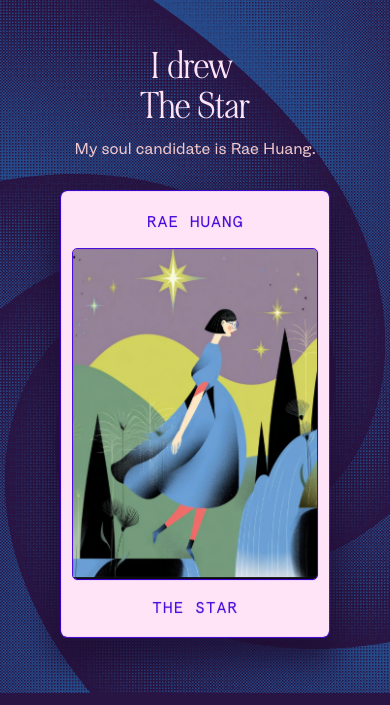
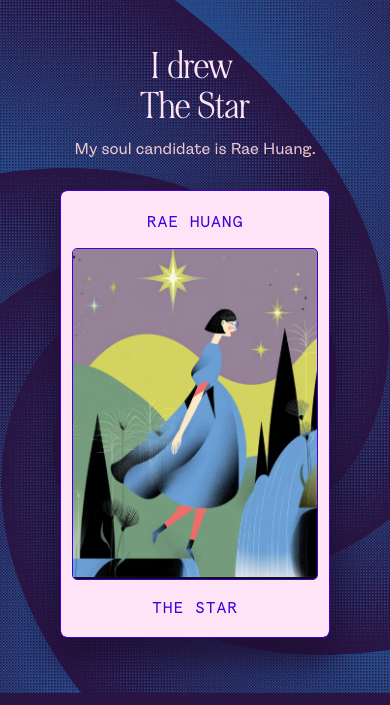
Improve hero shell first paint; align results with home
- Inject critical radial gradient for / and /result in gatsby-ssr; parse style before font preloads
- ClientOnlyDithering: static shader import and useLayoutEffect for earlier mount/reveal
- Home and ResultPage main: same radial gradient under swirl dither for first paint
- Update share preview PNGs

diff --git a/gatsby-ssr.js b/gatsby-ssr.js
@@ -7,6 +7,8 @@ import React from 'react'
 
 export { wrapPageElement } from './src/wrap-page-element'
 
+const CRITICAL_SHELL_BG_KEY = 'critical-shell-bg'
+
 const criticalFonts = [
   '/fonts/NoirEnBlanc/noiretblanc-webfont.woff2',
   '/fonts/NoirEnBlanc/noiretblanc_medium_bold-webfont.woff2',
@@ -25,8 +27,60 @@ const forceHttpsScript = (
   />
 )
 
-export const onRenderBody = ({ setHeadComponents }) => {
+/** Normalize Gatsby path (may include trailing slash). */
+function normalizedPath(pathname) {
+  const p = (pathname || '').replace(/\/$/, '')
+  return p === '' ? '/' : p
+}
+
+/**
+ * Matches hero dither chrome on home (`src/pages/index.js`) and results (`ResultPage` on `/result`)
+ * so first paint matches `#264A89` swirl-on-purple before JS/CSS bundles.
+ */
+function criticalShellBackgroundCss(pathname) {
+  const base = 'html{background-color:#291543}body{margin:0;background-color:#291543}'
+  const p = normalizedPath(pathname)
+  const heroDitherPages = p === '/' || p === '/result'
+  if (!heroDitherPages) return base
+  return `${base}body{background-image:radial-gradient(ellipse 130% 90% at 50% 0%,rgba(38,74,137,.42) 0%,rgba(41,21,67,0) 58%)}`
+}
+
+/**
+ * After Gatsby merges head, move shell background `<style>` before the first font/script preload
+ * so the parser applies paint rules before kicking off optional font fetches.
+ */
+export const onPreRenderHTML = ({ getHeadComponents, replaceHeadComponents }) => {
+  const head = getHeadComponents().filter(Boolean)
+  const ci = head.findIndex((c) => React.isValidElement(c) && c.key === CRITICAL_SHELL_BG_KEY)
+  if (ci === -1) return
+
+  const critical = head[ci]
+  const rest = head.filter((_, i) => i !== ci)
+
+  let insertAt = rest.findIndex((c) => {
+    if (!React.isValidElement(c) || c.type !== 'link') return false
+    const rel = c.props?.rel
+    return rel === 'preload' || rel === 'prefetch' || rel === 'modulepreload'
+  })
+
+  if (insertAt === -1) {
+    insertAt = rest.findIndex(
+      (c) => React.isValidElement(c) && c.type !== 'meta' && c.type !== 'title'
+    )
+  }
+  if (insertAt === -1) insertAt = rest.length
+
+  replaceHeadComponents([...rest.slice(0, insertAt), critical, ...rest.slice(insertAt)])
+}
+
+export const onRenderBody = ({ setHeadComponents, pathname }) => {
   setHeadComponents([
+    <style
+      key={CRITICAL_SHELL_BG_KEY}
+      dangerouslySetInnerHTML={{
+        __html: criticalShellBackgroundCss(pathname || ''),
+      }}
+    />,
     forceHttpsScript,
     ...criticalFonts.map((href) => (
       <link

diff --git a/src/components/ClientOnlyDithering.js b/src/components/ClientOnlyDithering.js
@@ -1,4 +1,5 @@
-import React, { useEffect, useMemo, useState } from 'react'
+import React, { useLayoutEffect, useMemo, useState } from 'react'
+import { Dithering } from '@paper-design/shaders-react'
 
 /** App-wide one-shot: multiple ClientOnlyDithering mounts must not each probe (WebGL context cap ~8). */
 let webgl2SupportCache
@@ -36,19 +37,24 @@ export default function ClientOnlyDithering({
   shape,
   revealVariant = 'auto',
   revealDuration,
+  /** Skip reveal delay/blur so WebGL shows on first layout pass (e.g. home hero). */
+  instantReveal = false,
   ...props
 }) {
   const [mounted, setMounted] = useState(false)
   const [revealed, setRevealed] = useState(false)
   const [reduceMotion, setReduceMotion] = useState(false)
 
-  useEffect(() => {
+  useLayoutEffect(() => {
     setMounted(true)
     setReduceMotion(prefersReducedMotion())
-  }, [])
+    if (instantReveal) {
+      setRevealed(true)
+    }
+  }, [instantReveal])
 
-  useEffect(() => {
-    if (!mounted) return
+  useLayoutEffect(() => {
+    if (!mounted || instantReveal) return
     setRevealed(false)
 
     const timer = window.setTimeout(() => {
@@ -61,7 +67,7 @@ export default function ClientOnlyDithering({
     }, 32)
 
     return () => window.clearTimeout(timer)
-  }, [mounted, shape, revealVariant])
+  }, [mounted, shape, revealVariant, instantReveal])
 
   const duration = revealDuration ?? (shape === 'swirl' ? DEFAULT_SWIRL_DURATION : DEFAULT_FADE_DURATION)
   const isSwirlReveal = revealVariant === 'swirl' || (revealVariant === 'auto' && shape === 'swirl')
@@ -87,7 +93,6 @@ export default function ClientOnlyDithering({
 
   const webgl2Ok = canUseWebGL2()
 
-  const { Dithering } = require('@paper-design/shaders-react')
   const fallbackColor = (style && style.backgroundColor) || '#00000000'
   const transitionDuration = reduceMotion ? 120 : duration
 

diff --git a/src/pages/index.js b/src/pages/index.js
@@ -139,7 +139,16 @@ const IntroPage = () => {
   return (
     <main
       id="main-content"
-      style={{ backgroundColor: '#291543', color: '#FFFFFF', overflowX: 'hidden', WebkitFontSmoothing: 'antialiased', MozOsxFontSmoothing: 'grayscale', textRendering: 'auto' }}
+      style={{
+        backgroundColor: '#291543',
+        /* Matches hero dither (#264A89) for first paint / SSR before WebGL hydrates */
+        backgroundImage: 'radial-gradient(ellipse 130% 90% at 50% 0%, rgba(38, 74, 137, 0.42) 0%, rgba(41, 21, 67, 0) 58%)',
+        color: '#FFFFFF',
+        overflowX: 'hidden',
+        WebkitFontSmoothing: 'antialiased',
+        MozOsxFontSmoothing: 'grayscale',
+        textRendering: 'auto',
+      }}
     >
       <section className="hero-shell" aria-label="Introduction">
         <ClientOnlyDithering

diff --git a/src/components/ResultPage.js b/src/components/ResultPage.js
@@ -385,6 +385,9 @@ const ResultPage = ({
         id="main-content"
         style={{
           backgroundColor: '#291543',
+          /* Matches hero dither (#264A89) for first paint before WebGL (`src/pages/index.js`) */
+          backgroundImage:
+            'radial-gradient(ellipse 130% 90% at 50% 0%, rgba(38, 74, 137, 0.42) 0%, rgba(41, 21, 67, 0) 58%)',
           boxSizing: 'border-box',
           fontSynthesis: 'none',
           margin: '0 auto',
@@ -558,6 +561,8 @@ const ResultPage = ({
       id="main-content"
       style={{
         backgroundColor: '#291543',
+        backgroundImage:
+          'radial-gradient(ellipse 130% 90% at 50% 0%, rgba(38, 74, 137, 0.42) 0%, rgba(41, 21, 67, 0) 58%)',
         fontSynthesis: 'none',
         margin: '0 auto',
         maxWidth: '1440px',
